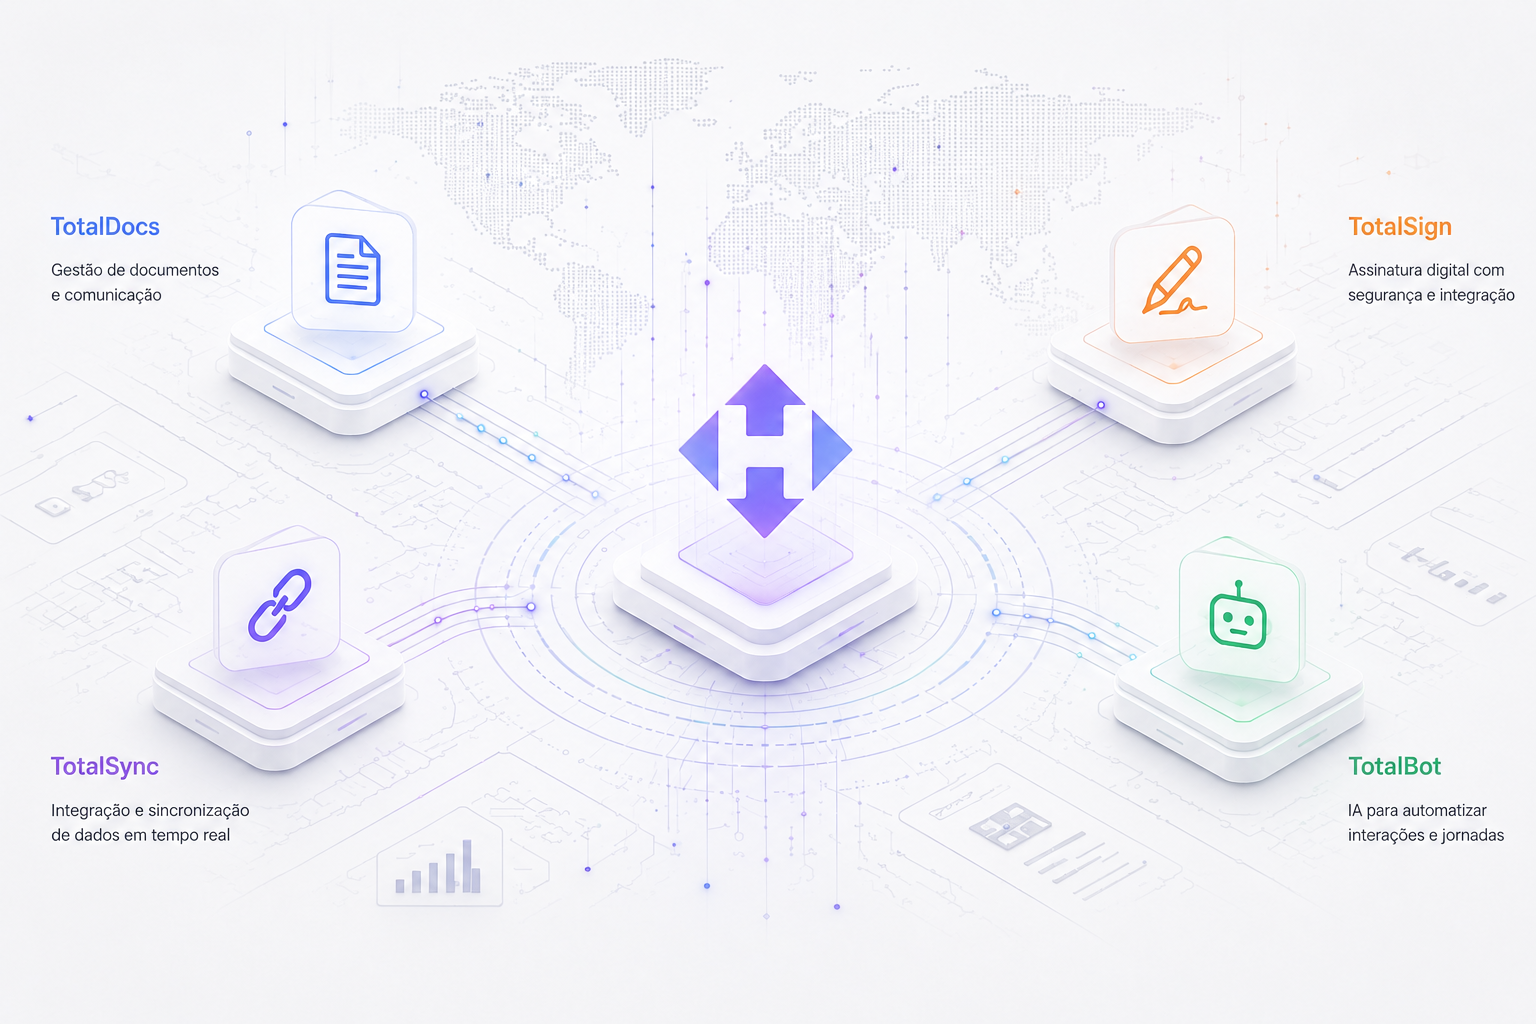
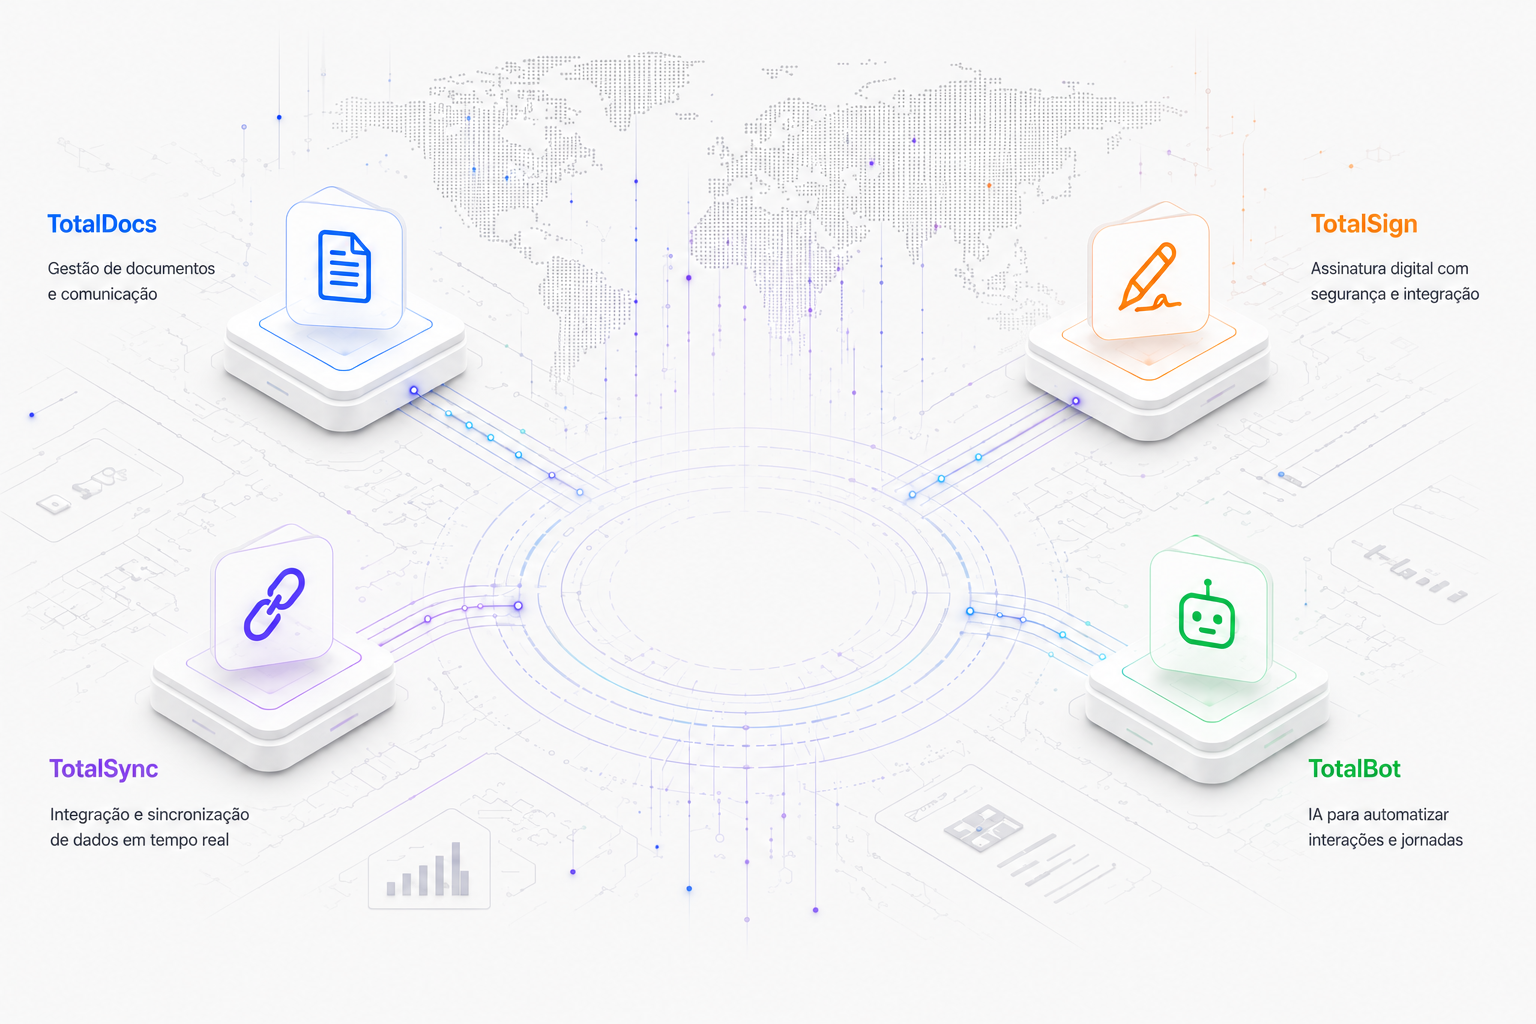
Retirando overlay e aplicando outra imagem

diff --git a/src/styles/global.css b/src/styles/global.css
@@ -563,15 +563,7 @@ p {
   color: black; /* Cor do texto ajustada para preto */
 }
 
-.overlay {
-  position: absolute;
-  top: 0;
-  left: 0;
-  width: 100%;
-  height: 100%;
-  background: rgba(0, 0, 0, 0.4); /* Background overlay para escurecer a imagem */
-  z-index: 1; /* Mantém a sobrecapa sobre a imagem, mas abaixo do texto */
-}
+
 
 .hero-text {
   z-index: 2; /* Garante que o texto fique sobre a sobrecapa */
